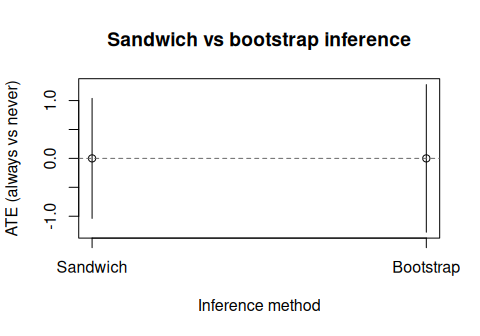
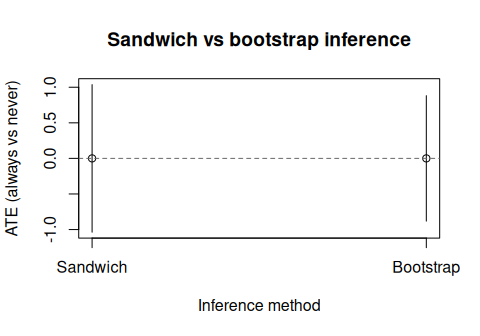
Deploying to gh-pages from @ etverse/causatr@7353b74bf3024634cf6ba6d98f621face3e59b1b 🚀

diff --git a/vignettes/matching.md b/vignettes/matching.md
@@ -105,13 +105,13 @@ res_att_bs
 #> Intervention means:
 #>    intervention estimate     se ci_lower ci_upper
 #>          <char>    <num>  <num>    <num>    <num>
-#> 1:         quit    4.525 0.4523    3.639    5.412
-#> 2:     continue    1.184 0.3919    0.416    1.952
+#> 1:         quit    4.525 0.4703   3.6034    5.447
+#> 2:     continue    1.184 0.3895   0.4207    1.947
 #> 
 #> Contrasts:
-#>          comparison estimate     se ci_lower ci_upper
-#>              <char>    <num>  <num>    <num>    <num>
-#> 1: quit vs continue    3.341 0.5811    2.202     4.48
+#>          comparison estimate    se ci_lower ci_upper
+#>              <char>    <num> <num>    <num>    <num>
+#> 1: quit vs continue    3.341 0.612    2.141    4.541
 ```
 
 ### ATE estimand
@@ -180,13 +180,13 @@ res_ate_bs
 #> Intervention means:
 #>    intervention estimate     se ci_lower ci_upper
 #>          <char>    <num>  <num>    <num>    <num>
-#> 1:         quit    5.442 0.6398    4.188    6.696
-#> 2:     continue    1.831 0.2312    1.378    2.284
+#> 1:         quit    5.442 0.5611    4.342    6.541
+#> 2:     continue    1.831 0.2165    1.406    2.255
 #> 
 #> Contrasts:
 #>          comparison estimate     se ci_lower ci_upper
 #>              <char>    <num>  <num>    <num>    <num>
-#> 1: quit vs continue    3.611 0.6829    2.273    4.949
+#> 1: quit vs continue    3.611 0.5877    2.459    4.763
 ```
 
 ### ATC estimand
@@ -325,13 +325,13 @@ res_rd_bs
 #> Intervention means:
 #>    intervention estimate      se ci_lower ci_upper
 #>          <char>    <num>   <num>    <num>    <num>
-#> 1:         quit   0.7419 0.02234   0.6982   0.7857
-#> 2:     continue   0.5931 0.02639   0.5413   0.6448
+#> 1:         quit   0.7419 0.02085   0.7011   0.7828
+#> 2:     continue   0.5931 0.02377   0.5465   0.6396
 #> 
 #> Contrasts:
 #>          comparison estimate      se ci_lower ci_upper
 #>              <char>    <num>   <num>    <num>    <num>
-#> 1: quit vs continue   0.1489 0.03089  0.08833   0.2094
+#> 1: quit vs continue   0.1489 0.02879  0.09246   0.2053
 ```
 
 ### Risk ratio
@@ -416,13 +416,13 @@ res_rr_bs
 #> Intervention means:
 #>    intervention estimate      se ci_lower ci_upper
 #>          <char>    <num>   <num>    <num>    <num>
-#> 1:         quit   0.7419 0.02320   0.6965   0.7874
-#> 2:     continue   0.5931 0.02571   0.5427   0.6434
+#> 1:         quit   0.7419 0.02210   0.6986   0.7852
+#> 2:     continue   0.5931 0.02632   0.5415   0.6446
 #> 
 #> Contrasts:
-#>          comparison estimate      se ci_lower ci_upper
-#>              <char>    <num>   <num>    <num>    <num>
-#> 1: quit vs continue    1.251 0.06397    1.126    1.376
+#>          comparison estimate     se ci_lower ci_upper
+#>              <char>    <num>  <num>    <num>    <num>
+#> 1: quit vs continue    1.251 0.0623    1.129    1.373
 ```
 
 ## Comparing estimands

diff --git a/vignettes/ipw.md b/vignettes/ipw.md
@@ -104,13 +104,13 @@ res_ate_bs
 #> Intervention means:
 #>    intervention estimate     se ci_lower ci_upper
 #>          <char>    <num>  <num>    <num>    <num>
-#> 1:         quit    5.305 0.4678    4.388    6.222
-#> 2:     continue    1.942 0.2316    1.488    2.396
+#> 1:         quit    5.305 0.4524    4.418    6.192
+#> 2:     continue    1.942 0.1884    1.573    2.311
 #> 
 #> Contrasts:
-#>          comparison estimate     se ci_lower ci_upper
-#>              <char>    <num>  <num>    <num>    <num>
-#> 1: quit vs continue    3.363 0.5023    2.379    4.348
+#>          comparison estimate    se ci_lower ci_upper
+#>              <char>    <num> <num>    <num>    <num>
+#> 1: quit vs continue    3.363 0.504    2.375    4.351
 ```
 
 ### ATT estimand
@@ -224,13 +224,13 @@ res_att_bs
 #> Intervention means:
 #>    intervention estimate     se ci_lower ci_upper
 #>          <char>    <num>  <num>    <num>    <num>
-#> 1:         quit    4.497 0.3653   3.7808    5.213
-#> 2:     continue    1.400 0.2872   0.8372    1.963
+#> 1:         quit    4.497 0.3938    3.725    5.269
+#> 2:     continue    1.400 0.2562    0.898    1.902
 #> 
 #> Contrasts:
 #>          comparison estimate     se ci_lower ci_upper
 #>              <char>    <num>  <num>    <num>    <num>
-#> 1: quit vs continue    3.097 0.4291    2.256    3.938
+#> 1: quit vs continue    3.097 0.4834    2.149    4.044
 ```
 
 ### Extracting results programmatically
@@ -325,13 +325,13 @@ res_rd_bs
 #> Intervention means:
 #>    intervention estimate      se ci_lower ci_upper
 #>          <char>    <num>   <num>    <num>    <num>
-#> 1:         quit   0.7815 0.02071   0.7409   0.8221
-#> 2:     continue   0.6500 0.01388   0.6228   0.6772
+#> 1:         quit   0.7815 0.02059   0.7412   0.8219
+#> 2:     continue   0.6500 0.01242   0.6256   0.6743
 #> 
 #> Contrasts:
 #>          comparison estimate      se ci_lower ci_upper
 #>              <char>    <num>   <num>    <num>    <num>
-#> 1: quit vs continue   0.1315 0.02482  0.08288   0.1802
+#> 1: quit vs continue   0.1315 0.02566  0.08123   0.1818
 ```
 
 ### Risk ratio
@@ -416,13 +416,13 @@ res_rr_bs
 #> Intervention means:
 #>    intervention estimate      se ci_lower ci_upper
 #>          <char>    <num>   <num>    <num>    <num>
-#> 1:         quit   0.7815 0.01893   0.7444   0.8186
-#> 2:     continue   0.6500 0.01340   0.6237   0.6762
+#> 1:         quit   0.7815 0.01855   0.7451   0.8179
+#> 2:     continue   0.6500 0.01362   0.6233   0.6767
 #> 
 #> Contrasts:
 #>          comparison estimate      se ci_lower ci_upper
 #>              <char>    <num>   <num>    <num>    <num>
-#> 1: quit vs continue    1.202 0.03697     1.13    1.275
+#> 1: quit vs continue    1.202 0.03963    1.125     1.28
 ```
 
 ## Comparing estimands

diff --git a/vignettes/gcomp.md b/vignettes/gcomp.md
@@ -95,13 +95,13 @@ res_ate_bs
 #> Intervention means:
 #>    intervention estimate     se ci_lower ci_upper
 #>          <char>    <num>  <num>    <num>    <num>
-#> 1:         quit    5.176 0.4302    4.333    6.019
-#> 2:     continue    1.660 0.2135    1.242    2.079
+#> 1:         quit    5.176 0.4627    4.269    6.083
+#> 2:     continue    1.660 0.2279    1.214    2.107
 #> 
 #> Contrasts:
 #>          comparison estimate     se ci_lower ci_upper
 #>              <char>    <num>  <num>    <num>    <num>
-#> 1: quit vs continue    3.516 0.4759    2.583    4.448
+#> 1: quit vs continue    3.516 0.4881    2.559    4.472
 ```
 
 Sandwich and bootstrap SEs should be in close agreement for correctly
@@ -287,13 +287,13 @@ res_rd_bs
 #> Intervention means:
 #>    intervention estimate      se ci_lower ci_upper
 #>          <char>    <num>   <num>    <num>    <num>
-#> 1:         quit   0.7696 0.02030   0.7298   0.8094
-#> 2:     continue   0.6383 0.01439   0.6101   0.6665
+#> 1:         quit   0.7696 0.02061   0.7292    0.810
+#> 2:     continue   0.6383 0.01415   0.6106    0.666
 #> 
 #> Contrasts:
 #>          comparison estimate      se ci_lower ci_upper
 #>              <char>    <num>   <num>    <num>    <num>
-#> 1: quit vs continue   0.1313 0.02582  0.08071   0.1819
+#> 1: quit vs continue   0.1313 0.02424   0.0838   0.1788
 ```
 
 ### Risk ratio
@@ -552,13 +552,13 @@ res_shift_bs
 #> Intervention means:
 #>    intervention estimate     se ci_lower ci_upper
 #>          <char>    <num>  <num>    <num>    <num>
-#> 1:     reduce10    2.594 0.2761    2.053    3.135
-#> 2:     observed    2.548 0.2165    2.123    2.972
+#> 1:     reduce10    2.594 0.2671    2.071    3.117
+#> 2:     observed    2.548 0.2144    2.128    2.968
 #> 
 #> Contrasts:
 #>              comparison estimate     se ci_lower ci_upper
 #>                  <char>    <num>  <num>    <num>    <num>
-#> 1: reduce10 vs observed  0.04617 0.1825  -0.3115   0.4038
+#> 1: reduce10 vs observed  0.04617 0.1816  -0.3098   0.4021
 ```
 
 ## Dynamic intervention

diff --git a/vignettes/longitudinal.md b/vignettes/longitudinal.md
@@ -227,13 +227,13 @@ result_boot
 #> Intervention means:
 #>    intervention estimate     se ci_lower ci_upper
 #>          <char>    <num>  <num>    <num>    <num>
-#> 1:       always       60 0.3910    59.23    60.77
-#> 2:        never       60 0.4204    59.18    60.82
+#> 1:       always       60 0.3098    59.39    60.61
+#> 2:        never       60 0.3513    59.31    60.69
 #> 
 #> Contrasts:
 #>         comparison   estimate     se ci_lower ci_upper
 #>             <char>      <num>  <num>    <num>    <num>
-#> 1: always vs never -3.553e-13 0.6506   -1.275    1.275
+#> 1: always vs never -3.553e-13 0.4498  -0.8815   0.8815
 ```
 
 The `parallel` and `ncpus` arguments enable parallel bootstrap
